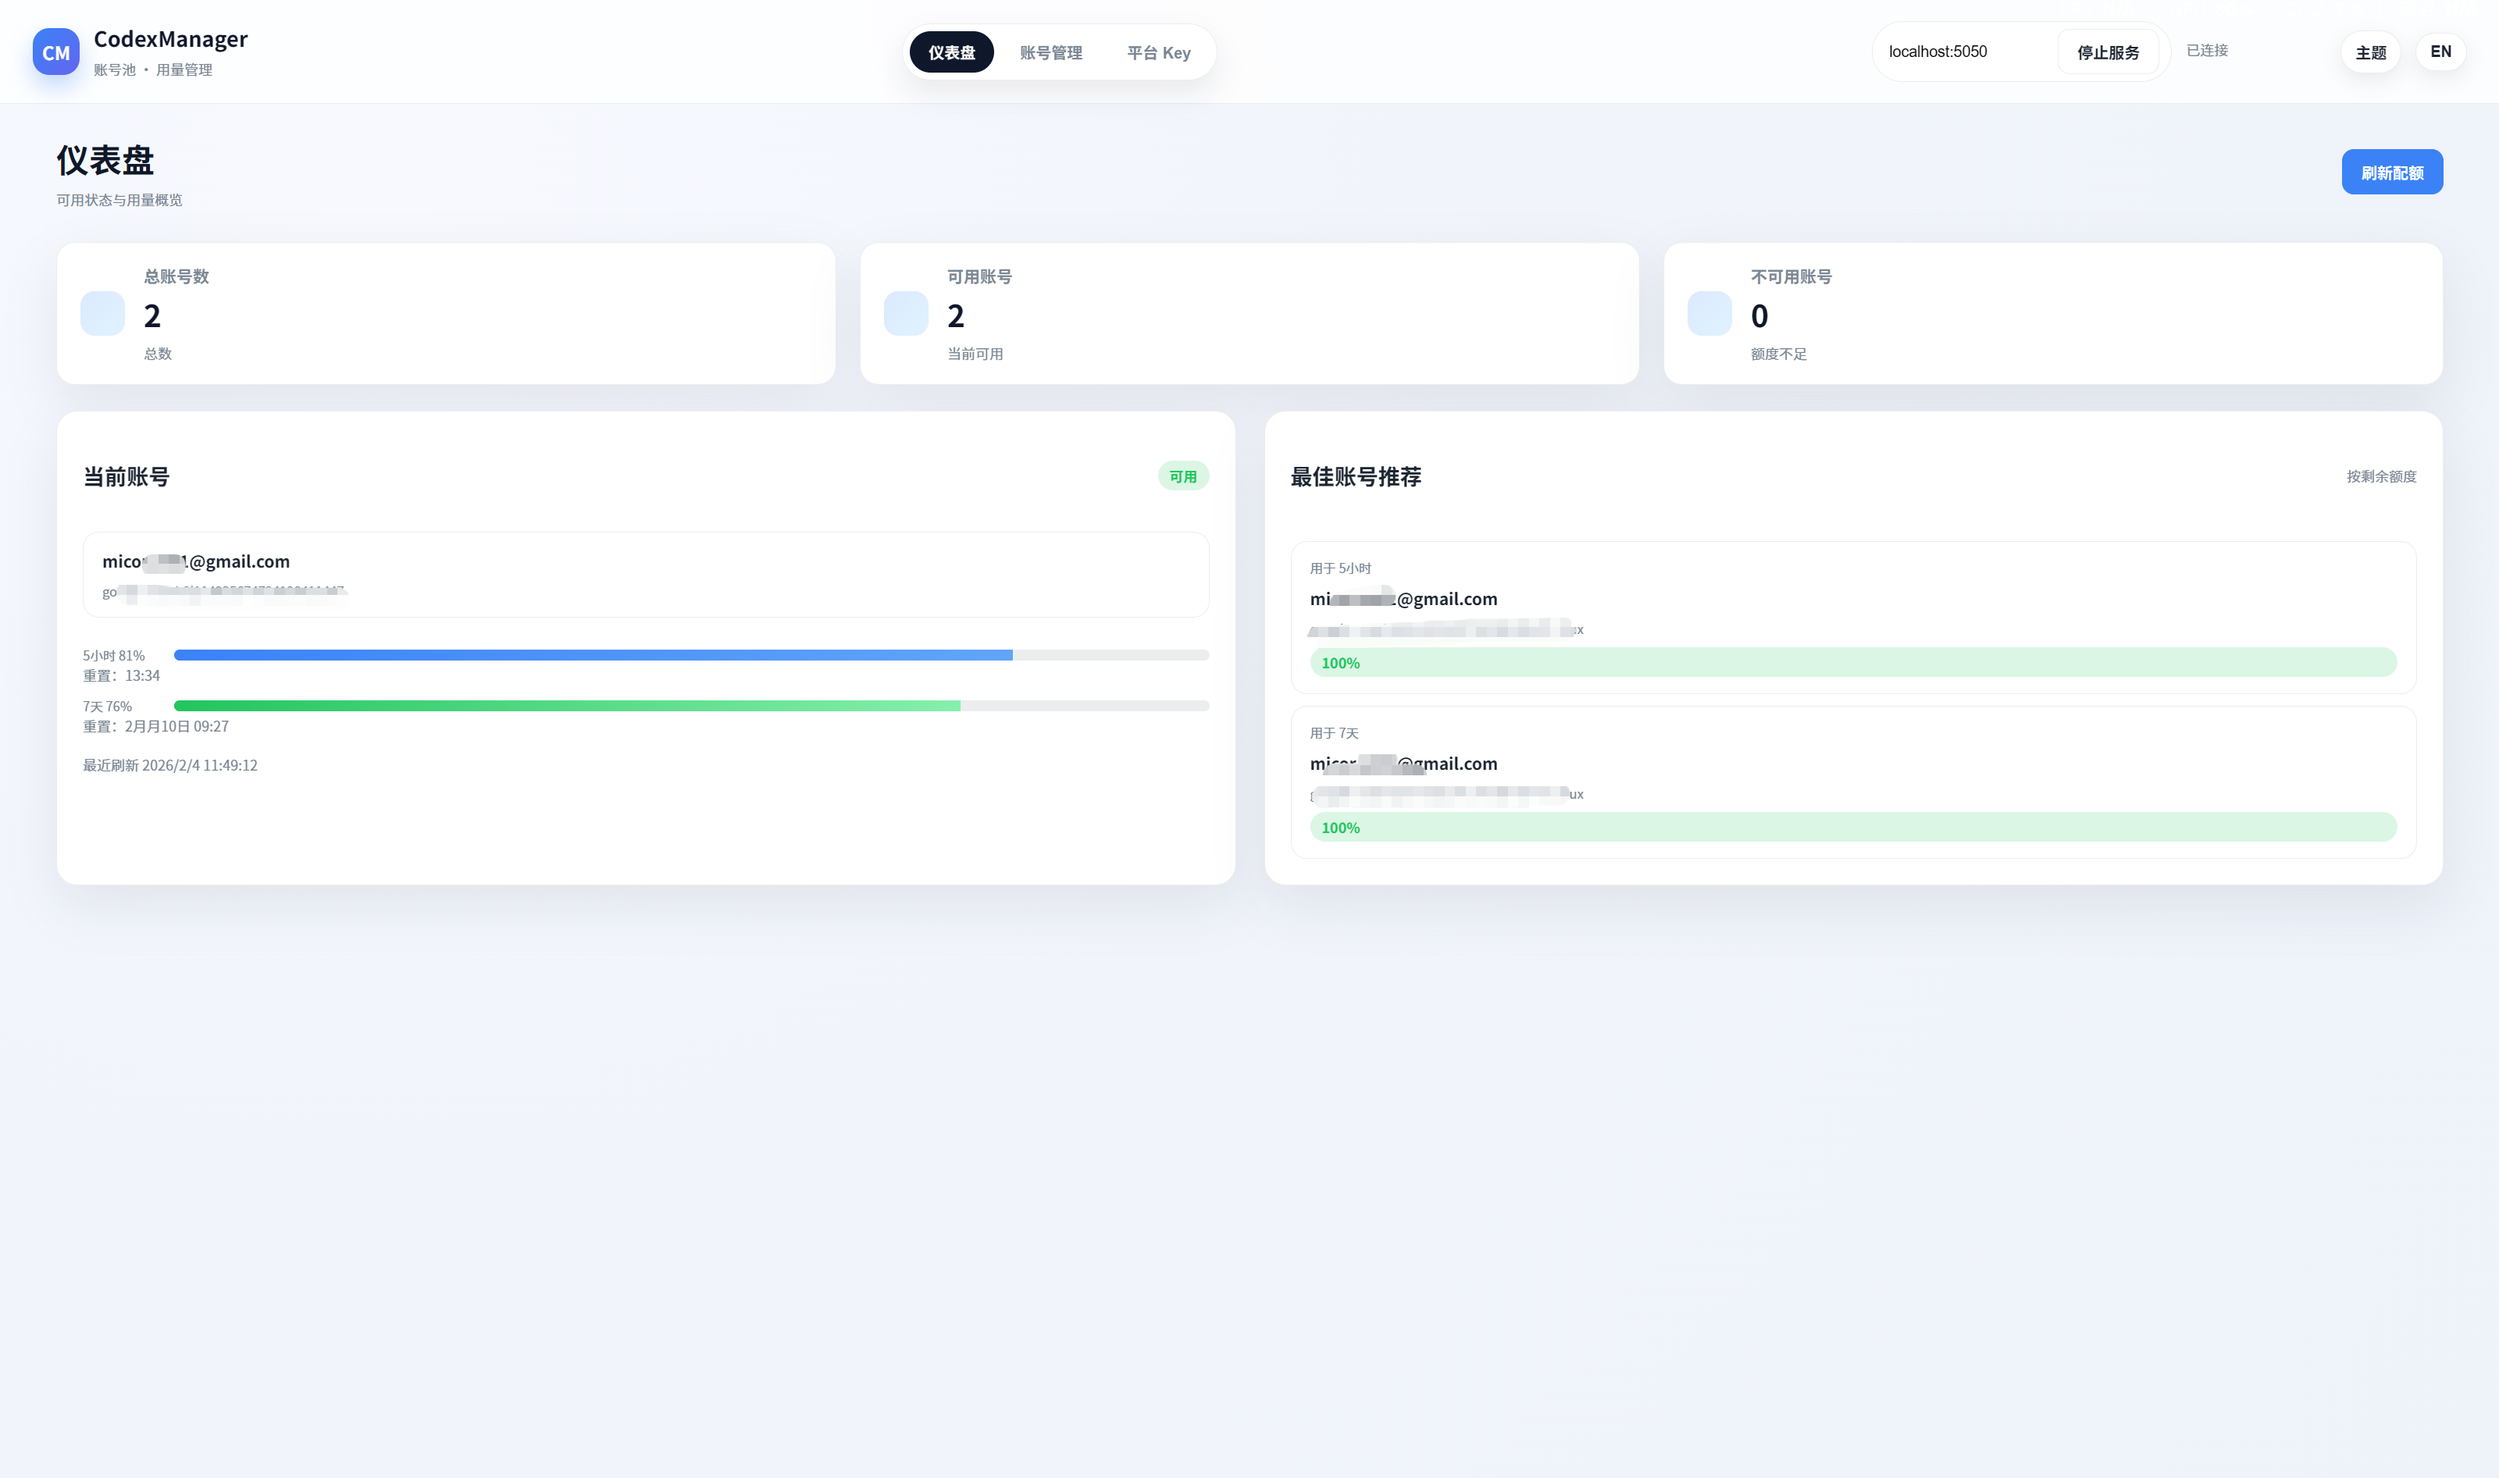
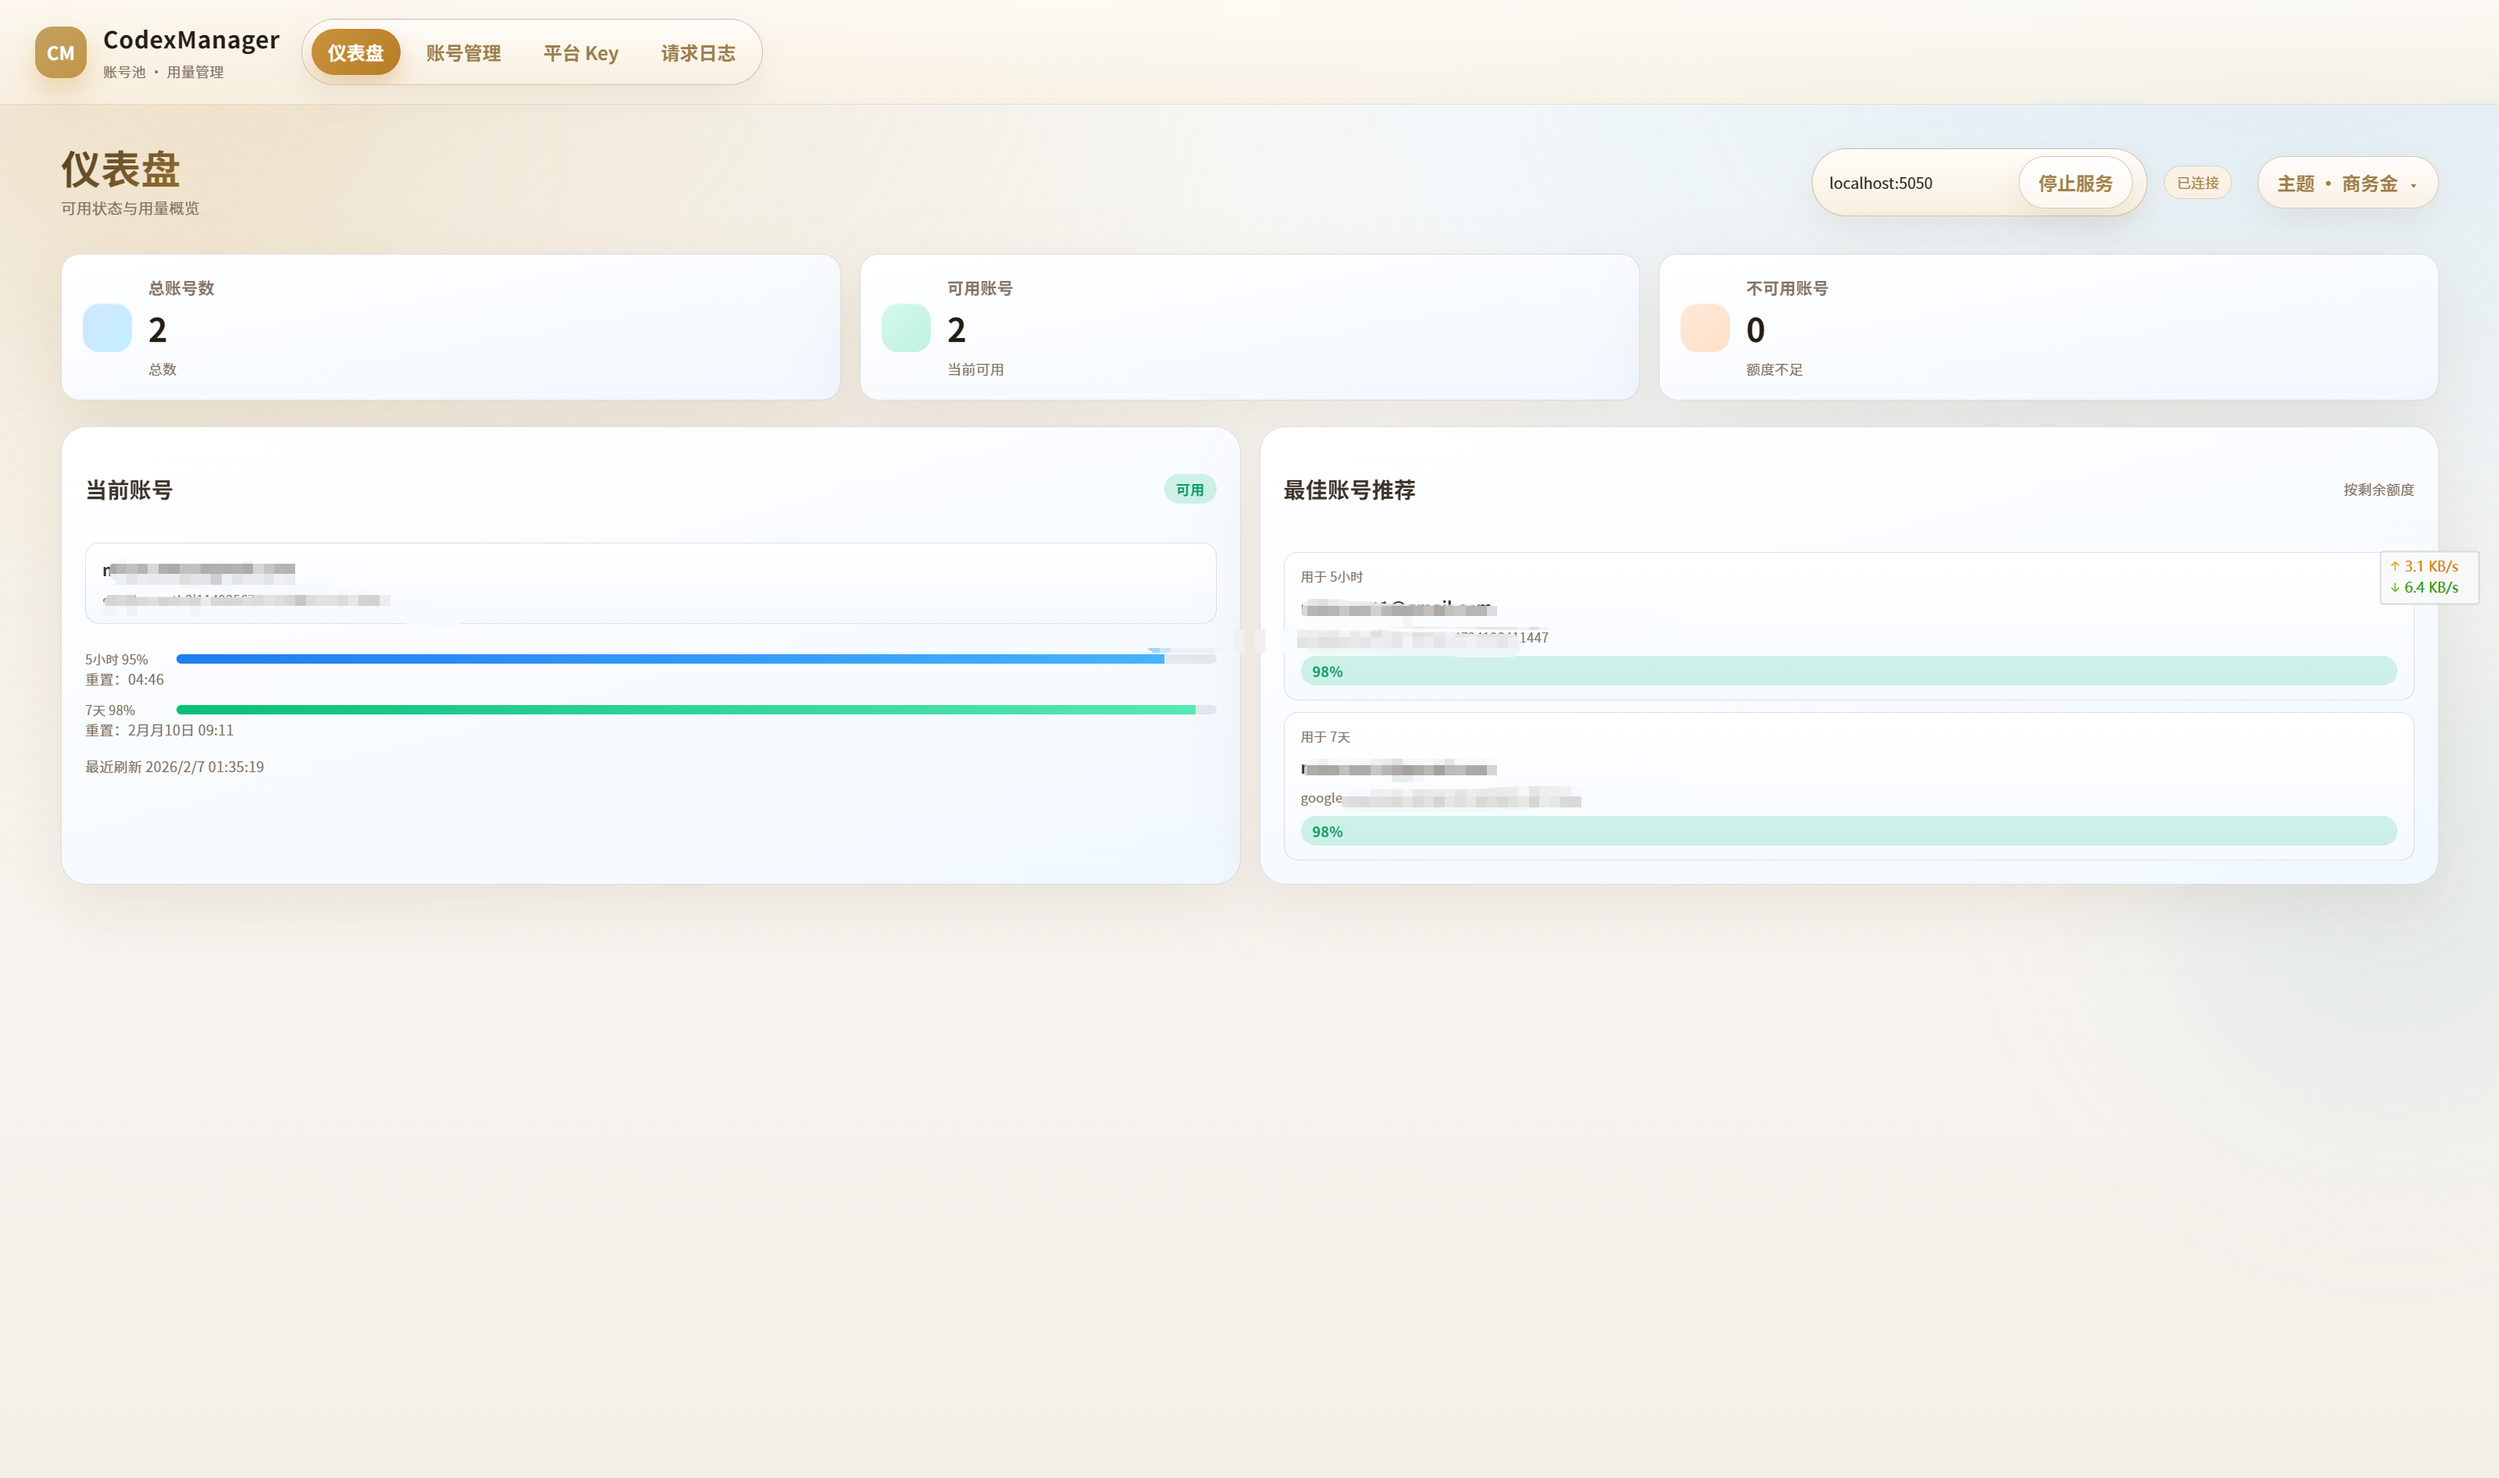
最新说明更新

diff --git a/README.md b/README.md
@@ -22,6 +22,8 @@
 ![仪表盘](assets/images/dashboard.png)
 ![账号管理](assets/images/accounts.png)
 ![平台 Key](assets/images/platform-key.png)
+![日志视图](assets/images/log.png)
+![主题切换](assets/images/themes.png)
 
 ## 技术栈
 - 前端：Vite + 原生 JS + 自定义 UI
@@ -84,7 +86,7 @@ cargo build -p gpttools-service --release
 - 端口被占用：修改顶部端口输入框后重新启动服务
 - 用量查询失败：稍后重试，或检查服务状态与网络
 
-## 联系我们
+## 联系我们 支持的话可以通过交流群团购team
 ![个人](assets/images/personal.jpg)
 ![交流群](assets/images/group.jpg)
 

diff --git a/README.en.md b/README.en.md
@@ -21,6 +21,8 @@ A local desktop + service toolkit for managing a Codex-compatible ChatGPT accoun
 ![Dashboard](assets/images/dashboard.png)
 ![Accounts](assets/images/accounts.png)
 ![Platform Key](assets/images/platform-key.png)
+![Logs](assets/images/log.png)
+![Themes](assets/images/themes.png)
 
 ## Tech Stack
 - Frontend: Vite + vanilla JS
